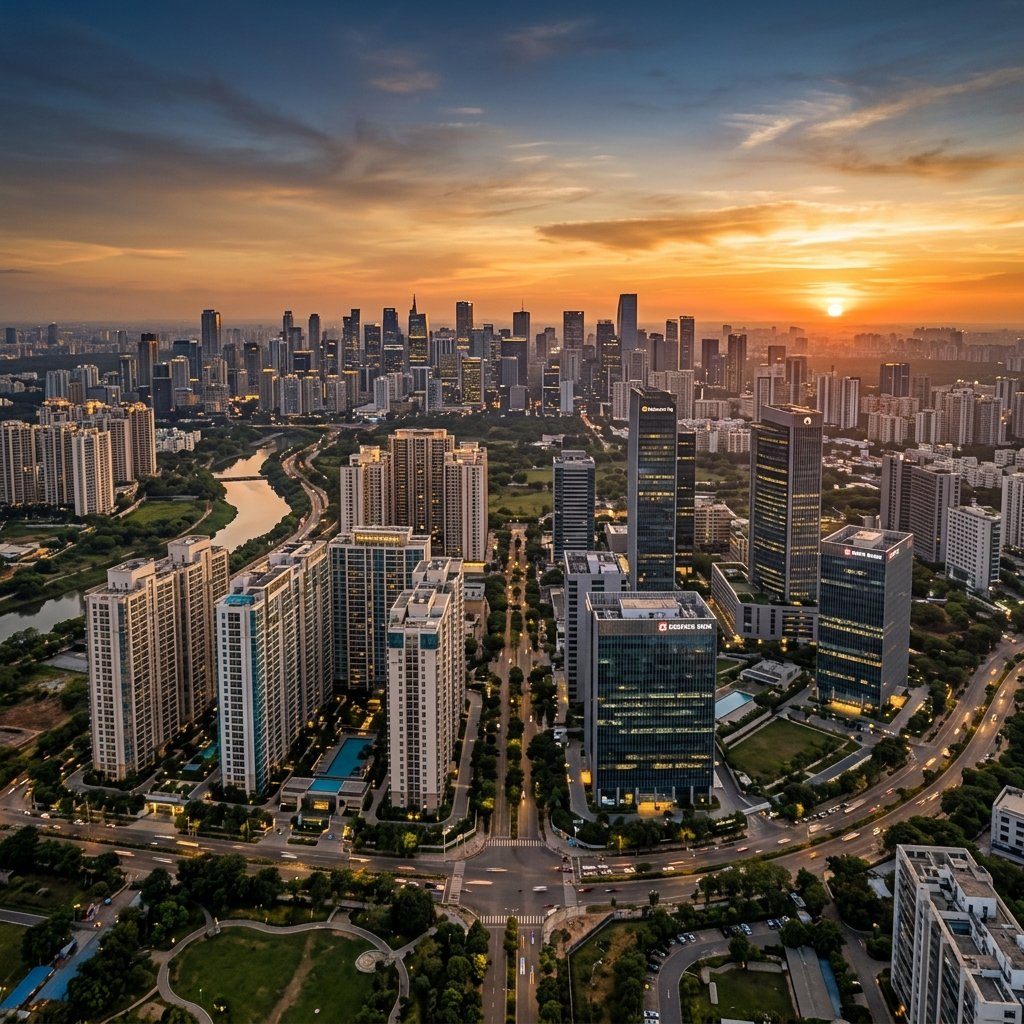
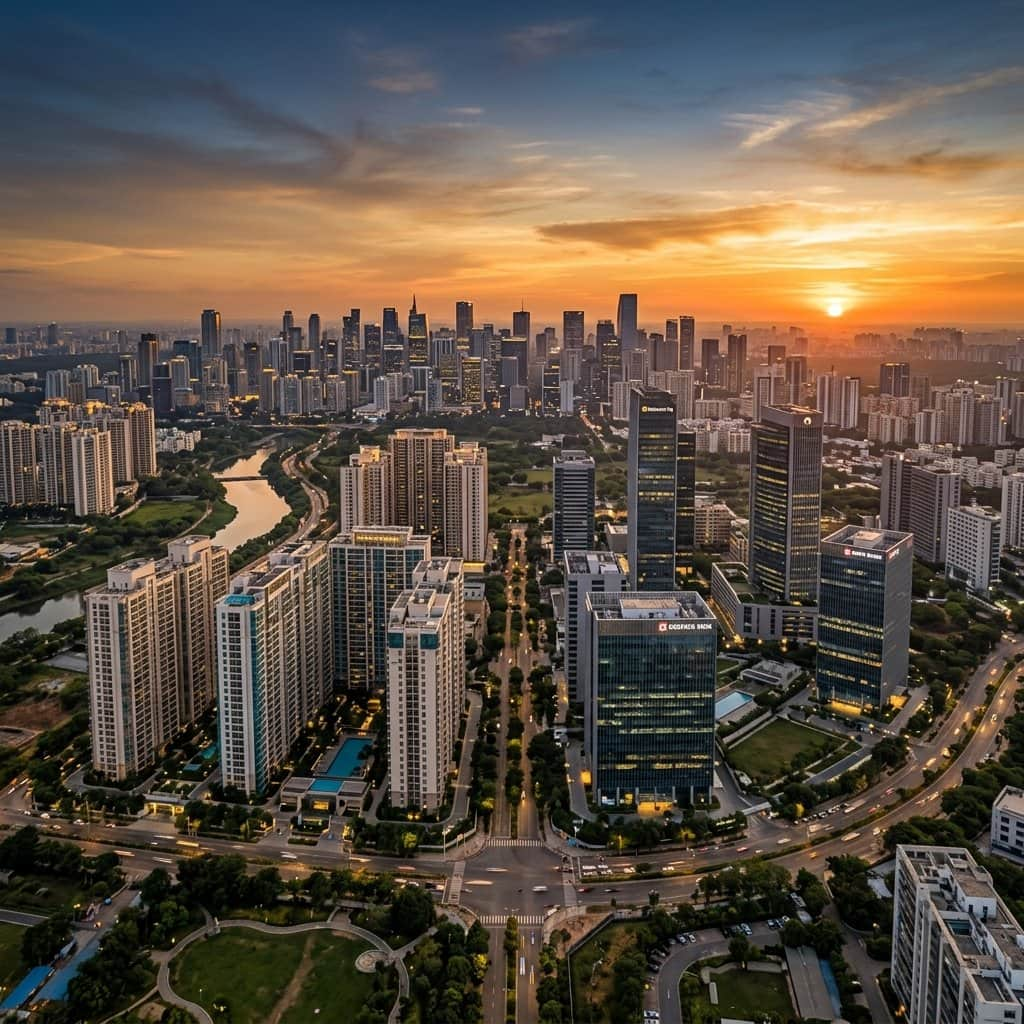
perf: defer non-critical javascript loading and safe initialization

diff --git a/browse-properties.html b/browse-properties.html
@@ -27,8 +27,8 @@
   <noscript>
     <link rel="stylesheet" href="css/style.min.css">
   </noscript>
-  <script src="https://cdn.jsdelivr.net/npm/@supabase/supabase-js@2"></script>
-  <script src="https://maps.googleapis.com/maps/api/js?key=AIzaSyDfdVD8gjMdJO_V7CECCKotFycBEOJYj20&libraries=places"></script>
+  <script src="https://cdn.jsdelivr.net/npm/@supabase/supabase-js@2" defer></script>
+  <script src="https://maps.googleapis.com/maps/api/js?key=AIzaSyDfdVD8gjMdJO_V7CECCKotFycBEOJYj20&libraries=places" defer></script>
   <link rel="icon" type="image/png" href="assets/logo1.png">
   <style>
     :root {
@@ -1323,7 +1323,7 @@
   <script>
     const _sUrl = 'https://lidrknxjezctdjrxwffz.supabase.co';
     const _sKey = 'eyJhbGciOiJIUzI1NiIsInR5cCI6IkpXVCJ9.eyJpc3MiOiJzdXBhYmFzZSIsInJlZiI6ImxpZHJrbnhqZXpjdGRqcnh3ZmZ6Iiwicm9sZSI6ImFub24iLCJpYXQiOjE3NzkxNzczODQsImV4cCI6MjA5NDc1MzM4NH0.xTQ2PFpQtG6f_C-2IitVCwFWBYJhnlU9Ei5oA5rhL48';
-    const supabaseClient = window.supabase.createClient(_sUrl, _sKey);
+    let supabaseClient;
 
     let currentProperty = null;
     let allVerifiedListings = [];
@@ -1690,12 +1690,17 @@
       m.addEventListener('click', function (e) { if (e.target === this) this.classList.remove('active'); });
     });
 
-    refreshListings();
+    document.addEventListener('DOMContentLoaded', () => {
+      supabaseClient = window.supabase.createClient(_sUrl, _sKey);
+      refreshListings();
+    });
 
     // Also refresh when user tabs back to this page from admin portal
-    window.addEventListener('focus', refreshListings);
+    window.addEventListener('focus', () => {
+      if (supabaseClient) refreshListings();
+    });
     document.addEventListener('visibilitychange', function () {
-      if (document.visibilityState === 'visible') refreshListings();
+      if (document.visibilityState === 'visible' && supabaseClient) refreshListings();
     });
   </script>
   <script src="js/loader.min.js?v=2" defer></script>

diff --git a/owmd-team-portal.html b/owmd-team-portal.html
@@ -10,8 +10,8 @@
     href="https://fonts.googleapis.com/css2?family=Inter:wght@300;400;500;600;700&family=Playfair+Display:wght@400;700;900&display=swap"
     rel="stylesheet">
   <link rel="icon" type="image/png" href="assets/logo1.png">
-  <script src="https://maps.googleapis.com/maps/api/js?key=AIzaSyDfdVD8gjMdJO_V7CECCKotFycBEOJYj20&libraries=places"></script>
-  <script src="https://cdn.jsdelivr.net/npm/@supabase/supabase-js@2"></script>
+  <script src="https://maps.googleapis.com/maps/api/js?key=AIzaSyDfdVD8gjMdJO_V7CECCKotFycBEOJYj20&libraries=places" defer></script>
+  <script src="https://cdn.jsdelivr.net/npm/@supabase/supabase-js@2" defer></script>
   <style>
     :root {
       --purple: #6B1FA8;
@@ -2049,10 +2049,9 @@
   </div>
 
   <script>
-    // const ADMIN_EMAIL='admin@onlywhitemoneydeals.com',ADMIN_PASS='owmd@admin2024';
     const _sUrl = 'https://lidrknxjezctdjrxwffz.supabase.co';
     const _sKey = 'eyJhbGciOiJIUzI1NiIsInR5cCI6IkpXVCJ9.eyJpc3MiOiJzdXBhYmFzZSIsInJlZiI6ImxpZHJrbnhqZXpjdGRqcnh3ZmZ6Iiwicm9sZSI6ImFub24iLCJpYXQiOjE3NzkxNzczODQsImV4cCI6MjA5NDc1MzM4NH0.xTQ2PFpQtG6f_C-2IitVCwFWBYJhnlU9Ei5oA5rhL48';
-    const supabaseClient = window.supabase.createClient(_sUrl, _sKey);
+    let supabaseClient;
 
     let cachedListings = [];
     let cachedInterests = [];
@@ -2970,6 +2969,7 @@
 
 
     window.addEventListener('DOMContentLoaded', async () => {
+      supabaseClient = window.supabase.createClient(_sUrl, _sKey);
       const { data } = await supabaseClient.auth.getSession();
       if (data && data.session) {
         document.getElementById('loginWrap').style.display = 'none';

diff --git a/list-property.html b/list-property.html
@@ -27,8 +27,8 @@
   </noscript>
   <link rel="icon" type="image/png" href="assets/logo1.png">
   <script
-    src="https://maps.googleapis.com/maps/api/js?key=AIzaSyDfdVD8gjMdJO_V7CECCKotFycBEOJYj20&libraries=places"></script>
-  <script src="https://cdn.jsdelivr.net/npm/@supabase/supabase-js@2"></script>
+    src="https://maps.googleapis.com/maps/api/js?key=AIzaSyDfdVD8gjMdJO_V7CECCKotFycBEOJYj20&libraries=places" defer></script>
+  <script src="https://cdn.jsdelivr.net/npm/@supabase/supabase-js@2" defer></script>
   <style>
     :root {
       --purple: #6B1FA8;
@@ -1380,7 +1380,10 @@
   <script>
     const _sUrl = 'https://lidrknxjezctdjrxwffz.supabase.co';
     const _sKey = 'eyJhbGciOiJIUzI1NiIsInR5cCI6IkpXVCJ9.eyJpc3MiOiJzdXBhYmFzZSIsInJlZiI6ImxpZHJrbnhqZXpjdGRqcnh3ZmZ6Iiwicm9sZSI6ImFub24iLCJpYXQiOjE3NzkxNzczODQsImV4cCI6MjA5NDc1MzM4NH0.xTQ2PFpQtG6f_C-2IitVCwFWBYJhnlU9Ei5oA5rhL48';
-    const supabaseClient = window.supabase.createClient(_sUrl, _sKey);
+    let supabaseClient;
+    document.addEventListener('DOMContentLoaded', () => {
+      supabaseClient = window.supabase.createClient(_sUrl, _sKey);
+    });
 
     let uploadedPhotos = []; // array of {blob: Blob, url: string}
 

diff --git a/index.html b/index.html
@@ -3,7 +3,7 @@
 
 <head>
     <!-- Google tag (gtag.js) -->
-    <script async src="https://www.googletagmanager.com/gtag/js?id=G-G6ZWSPKTQS"></script>
+    <script src="https://www.googletagmanager.com/gtag/js?id=G-G6ZWSPKTQS" defer></script>
     <script>
         window.dataLayer = window.dataLayer || [];
         function gtag() { dataLayer.push(arguments); }
@@ -12,7 +12,7 @@
         gtag('config', 'G-G6ZWSPKTQS');
     </script>
     <!-- Cygnik Widget -->
-    <script src="https://app.cygnik.ca/loader.js" data-site="1cd5b829-f1ed-4489-9e76-38821062e74b" async></script>
+    <script src="https://app.cygnik.ca/loader.js" data-site="1cd5b829-f1ed-4489-9e76-38821062e74b" defer></script>
     <meta charset="UTF-8">
     <meta name="viewport" content="width=device-width, initial-scale=1.0">
     <title>Real Estate Broker in Ghaziabad, Indirapuram & Noida | Buy/Sell Flats | OWMD</title>

diff --git a/benefits.html b/benefits.html
@@ -326,7 +326,7 @@
         }
     </style>
     <!-- Google tag (gtag.js) -->
-    <script async src="https://www.googletagmanager.com/gtag/js?id=G-G6ZWSPKTQS"></script>
+    <script src="https://www.googletagmanager.com/gtag/js?id=G-G6ZWSPKTQS" defer></script>
     <script>
         window.dataLayer = window.dataLayer || [];
         function gtag() { dataLayer.push(arguments); }
@@ -335,7 +335,7 @@
         gtag('config', 'G-G6ZWSPKTQS');
     </script>
     <!-- Cygnik Widget -->
-    <script src="https://app.cygnik.ca/loader.js" data-site="1cd5b829-f1ed-4489-9e76-38821062e74b" async></script>
+    <script src="https://app.cygnik.ca/loader.js" data-site="1cd5b829-f1ed-4489-9e76-38821062e74b" defer></script>
 </head>
 
 <body>

diff --git a/faq.html b/faq.html
@@ -174,7 +174,7 @@
     }
     </script>
     <!-- Google tag (gtag.js) -->
-    <script async src="https://www.googletagmanager.com/gtag/js?id=G-G6ZWSPKTQS"></script>
+    <script src="https://www.googletagmanager.com/gtag/js?id=G-G6ZWSPKTQS" defer></script>
     <script>
         window.dataLayer = window.dataLayer || [];
         function gtag() { dataLayer.push(arguments); }
@@ -183,7 +183,7 @@
         gtag('config', 'G-G6ZWSPKTQS');
     </script>
     <!-- Cygnik Widget -->
-    <script src="https://app.cygnik.ca/loader.js" data-site="1cd5b829-f1ed-4489-9e76-38821062e74b" async></script>
+    <script src="https://app.cygnik.ca/loader.js" data-site="1cd5b829-f1ed-4489-9e76-38821062e74b" defer></script>
 </head>
 
 <body>
